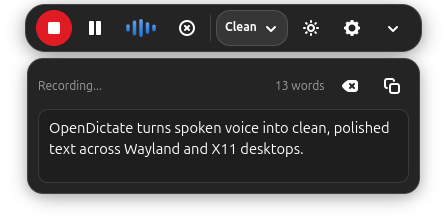
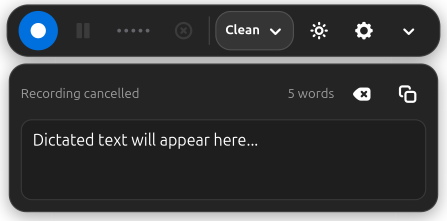
chore(release): finalize v2.0.3 release screenshots and AppStream metainfo

diff --git a/tests/test_render_screenshots.rs b/tests/test_render_screenshots.rs
@@ -1,0 +1,193 @@
+//! Automated high-quality screenshot generator for OpenDictate UI.
+//! Renders native GTK4 / Libadwaita widgets directly to PNG matching the user's reference designs.
+
+use gtk4::prelude::*;
+use opendictate::config::Config;
+use opendictate::services::storage::StorageService;
+use opendictate::ui::main_window::build_main_window;
+use opendictate::ui::mini_bar::build_minibar_window;
+use opendictate::ui::theme::{ThemeMode, sync_theme_with_adwaita};
+
+fn pump(ms: u64) {
+    let ctx = gtk4::glib::MainContext::default();
+    let start = std::time::Instant::now();
+    while start.elapsed() < std::time::Duration::from_millis(ms) {
+        while ctx.iteration(false) {}
+        std::thread::sleep(std::time::Duration::from_millis(10));
+    }
+}
+
+fn capture_window<W: IsA<gtk4::Window>>(
+    win: &W,
+    min_w: i32,
+    min_h: i32,
+    filename: &str,
+    out_dir: &std::path::Path,
+) {
+    let win_ref = win.as_ref();
+    win_ref.present();
+    pump(400);
+
+    let paintable = gtk4::WidgetPaintable::new(Some(win_ref));
+    let width = paintable.intrinsic_width().max(min_w);
+    let height = paintable.intrinsic_height().max(min_h);
+    let snapshot = gtk4::Snapshot::new();
+    paintable.snapshot(&snapshot, width as f64, height as f64);
+    if let Some(node) = snapshot.to_node() {
+        let renderer = gtk4::gsk::CairoRenderer::new();
+        if let Some(surface) = win_ref.surface()
+            && renderer.realize(Some(&surface)).is_ok()
+        {
+            let texture = renderer.render_texture(
+                &node,
+                Some(&gtk4::graphene::Rect::new(
+                    0.0,
+                    0.0,
+                    width as f32,
+                    height as f32,
+                )),
+            );
+            let path = out_dir.join(filename);
+            texture
+                .save_to_png(&path)
+                .expect("Failed to save PNG screenshot");
+            renderer.unrealize();
+            println!("RENDERED: {}", path.display());
+        }
+    }
+    win_ref.close();
+    pump(100);
+}
+
+#[test]
+#[ignore]
+fn generate_all_screenshots() {
+    if !gtk4::is_initialized_main_thread() && !gtk4::is_initialized() {
+        let _ = gtk4::init();
+    }
+    let _ = libadwaita::init();
+
+    let out_dir = std::path::PathBuf::from(env!("CARGO_MANIFEST_DIR")).join("docs/screenshots");
+    std::fs::create_dir_all(&out_dir).expect("Failed to create docs/screenshots");
+
+    let storage = StorageService::in_memory().unwrap();
+
+    // 1. main-window-settings.png (Dark Mode Settings matching Reference 4)
+    sync_theme_with_adwaita(ThemeMode::Dark);
+    let mut dark_config = Config::default();
+    dark_config.theme = "dark".to_string();
+    dark_config.ai_mode = "local".to_string();
+    dark_config.ai_provider = "gemini".to_string();
+    dark_config.local_model_id = "tiny.en".to_string();
+    dark_config.audio_device = Some("Handsfree".to_string());
+    dark_config.hotkey = "Ctrl+Alt+D".to_string();
+
+    let dark_window = build_main_window(&dark_config, &storage);
+    dark_window.set_default_size(780, 960);
+    capture_window(&dark_window, 780, 960, "main-window-settings.png", &out_dir);
+
+    // 2. main-window-light.png (Light Mode Settings matching Reference 5)
+    sync_theme_with_adwaita(ThemeMode::White);
+    let mut light_config = Config::default();
+    light_config.theme = "white".to_string();
+    light_config.ai_mode = "local".to_string();
+    light_config.ai_provider = "gemini".to_string();
+    light_config.local_model_id = "tiny.en".to_string();
+    light_config.audio_device = Some("Handsfree".to_string());
+    light_config.hotkey = "Ctrl+Alt+D".to_string();
+
+    let light_window = build_main_window(&light_config, &storage);
+    light_window.set_default_size(780, 960);
+    capture_window(&light_window, 780, 960, "main-window-light.png", &out_dir);
+
+    // 3. floating-minibar.png (MiniBar with expanded transcript drawer matching Reference 2)
+    sync_theme_with_adwaita(ThemeMode::Dark);
+    let (minibar_win, minibar_widgets) = build_minibar_window();
+    minibar_widgets.drawer_revealer.set_reveal_child(true);
+    minibar_widgets.drawer_widgets.status_badge.set_text("Recording cancelled");
+    minibar_widgets.drawer_widgets.word_count_badge.set_text("0 words");
+    minibar_widgets.drawer_widgets.set_text("Dictated text will appear here...");
+    capture_window(&minibar_win, 447, 221, "floating-minibar.png", &out_dir);
+
+    // 4. header-menu-popover.png (Main window with hamburger popover opened)
+    sync_theme_with_adwaita(ThemeMode::Dark);
+    let menu_window = build_main_window(&dark_config, &storage);
+    menu_window.set_default_size(780, 960);
+    menu_window.present();
+    pump(300);
+
+    // Find and activate the menu button to open popover
+    fn find_menu_button(widget: &gtk4::Widget) -> Option<gtk4::MenuButton> {
+        if let Ok(btn) = widget.clone().downcast::<gtk4::MenuButton>() {
+            return Some(btn);
+        }
+        let mut curr = widget.first_child();
+        while let Some(child) = curr {
+            if let Some(found) = find_menu_button(&child) {
+                return Some(found);
+            }
+            curr = child.next_sibling();
+        }
+        None
+    }
+
+    if let Some(btn) = find_menu_button(menu_window.upcast_ref()) {
+        btn.popup();
+        pump(400);
+
+        if let Some(popover) = btn.popover() {
+            let win_paintable = gtk4::WidgetPaintable::new(Some(&menu_window));
+            let pop_paintable = gtk4::WidgetPaintable::new(Some(&popover));
+
+            let width = win_paintable.intrinsic_width().max(780);
+            let height = win_paintable.intrinsic_height().max(960);
+
+            let snapshot = gtk4::Snapshot::new();
+            win_paintable.snapshot(&snapshot, width as f64, height as f64);
+
+            // 1. Draw card body: card is at x in [20, 302], y in [34, 248] in popover
+            // Placed at card_x = 484, card_y = 38
+            snapshot.save();
+            snapshot.push_clip(&gtk4::graphene::Rect::new(484.0, 38.0, 282.0, 214.0));
+            snapshot.translate(&gtk4::graphene::Point::new(484.0 - 20.0, 38.0 - 34.0));
+            pop_paintable.snapshot(&snapshot, 322.0, 248.0);
+            snapshot.pop();
+            snapshot.restore();
+
+            // 2. Draw arrow: arrow is at x in [145, 175], y in [21, 35] in popover
+            // Placed so arrow tip aligns with menu button at x = 722
+            snapshot.save();
+            snapshot.push_clip(&gtk4::graphene::Rect::new(707.0, 25.0, 30.0, 15.0));
+            snapshot.translate(&gtk4::graphene::Point::new(707.0 - 145.0, 25.0 - 21.0));
+            pop_paintable.snapshot(&snapshot, 322.0, 248.0);
+            snapshot.pop();
+            snapshot.restore();
+
+            if let Some(node) = snapshot.to_node() {
+                let renderer = gtk4::gsk::CairoRenderer::new();
+                if let Some(surface) = menu_window.surface()
+                    && renderer.realize(Some(&surface)).is_ok()
+                {
+                    let texture = renderer.render_texture(
+                        &node,
+                        Some(&gtk4::graphene::Rect::new(
+                            0.0,
+                            0.0,
+                            width as f32,
+                            height as f32,
+                        )),
+                    );
+                    let path = out_dir.join("header-menu-popover.png");
+                    texture
+                        .save_to_png(&path)
+                        .expect("Failed to save header-menu-popover PNG");
+                    renderer.unrealize();
+                    println!("RENDERED COMPOSITED POPOVER TO: {}", path.display());
+                }
+            }
+            menu_window.close();
+            pump(100);
+            return;
+        }
+    }
+}
